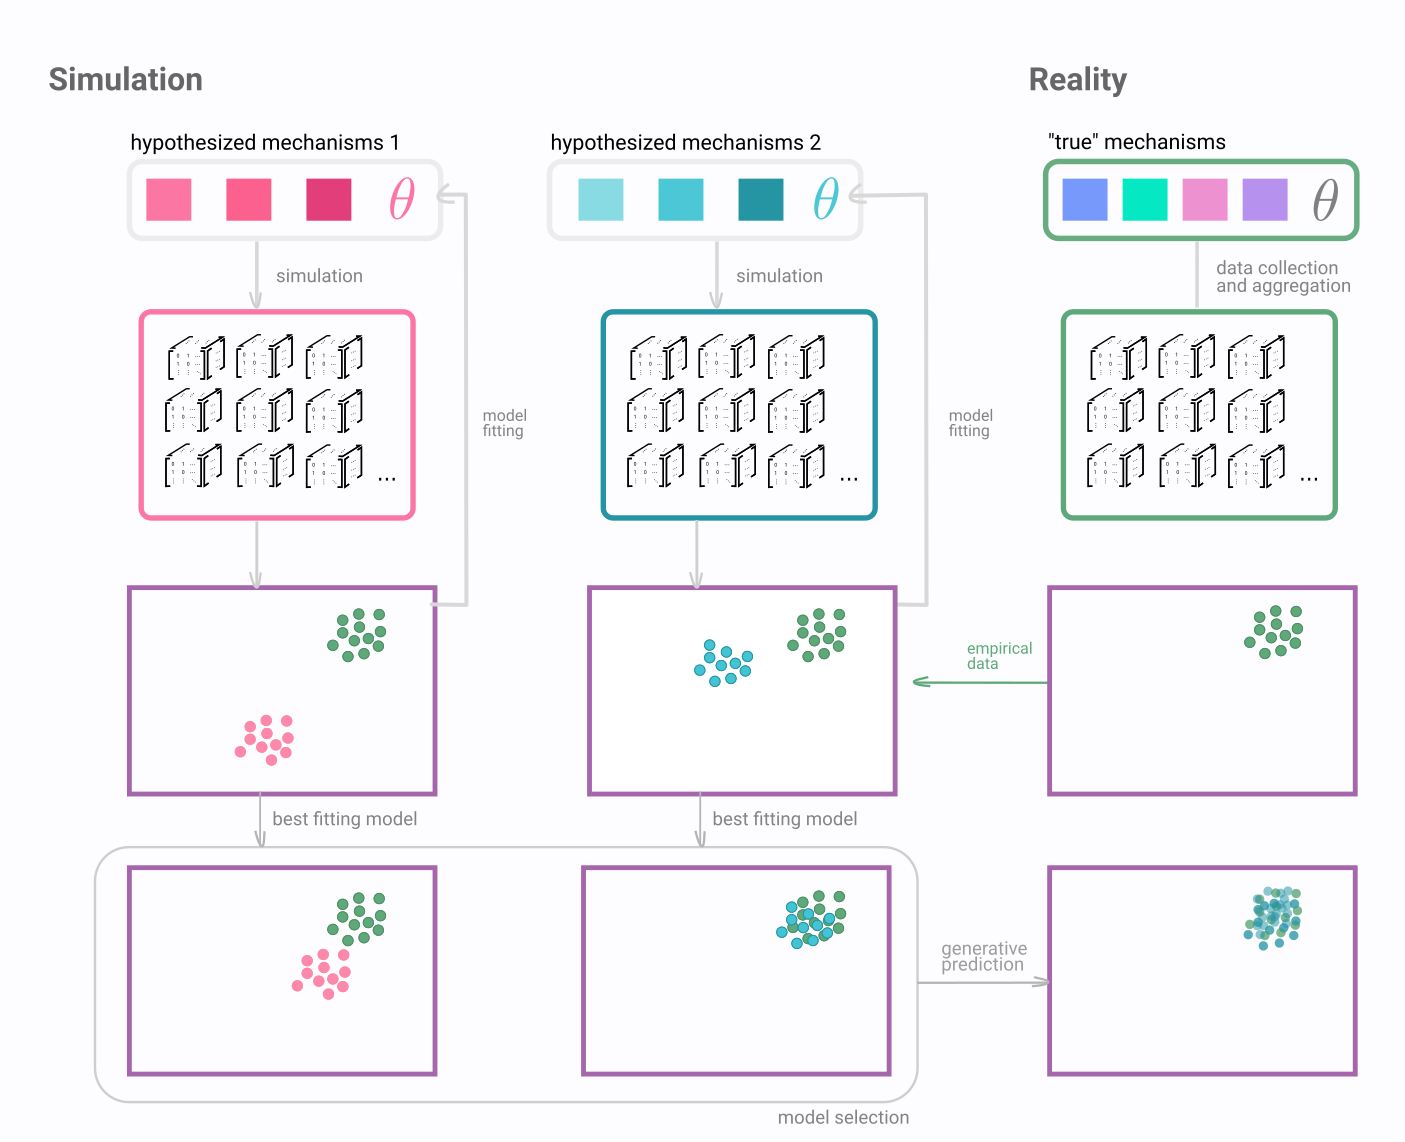
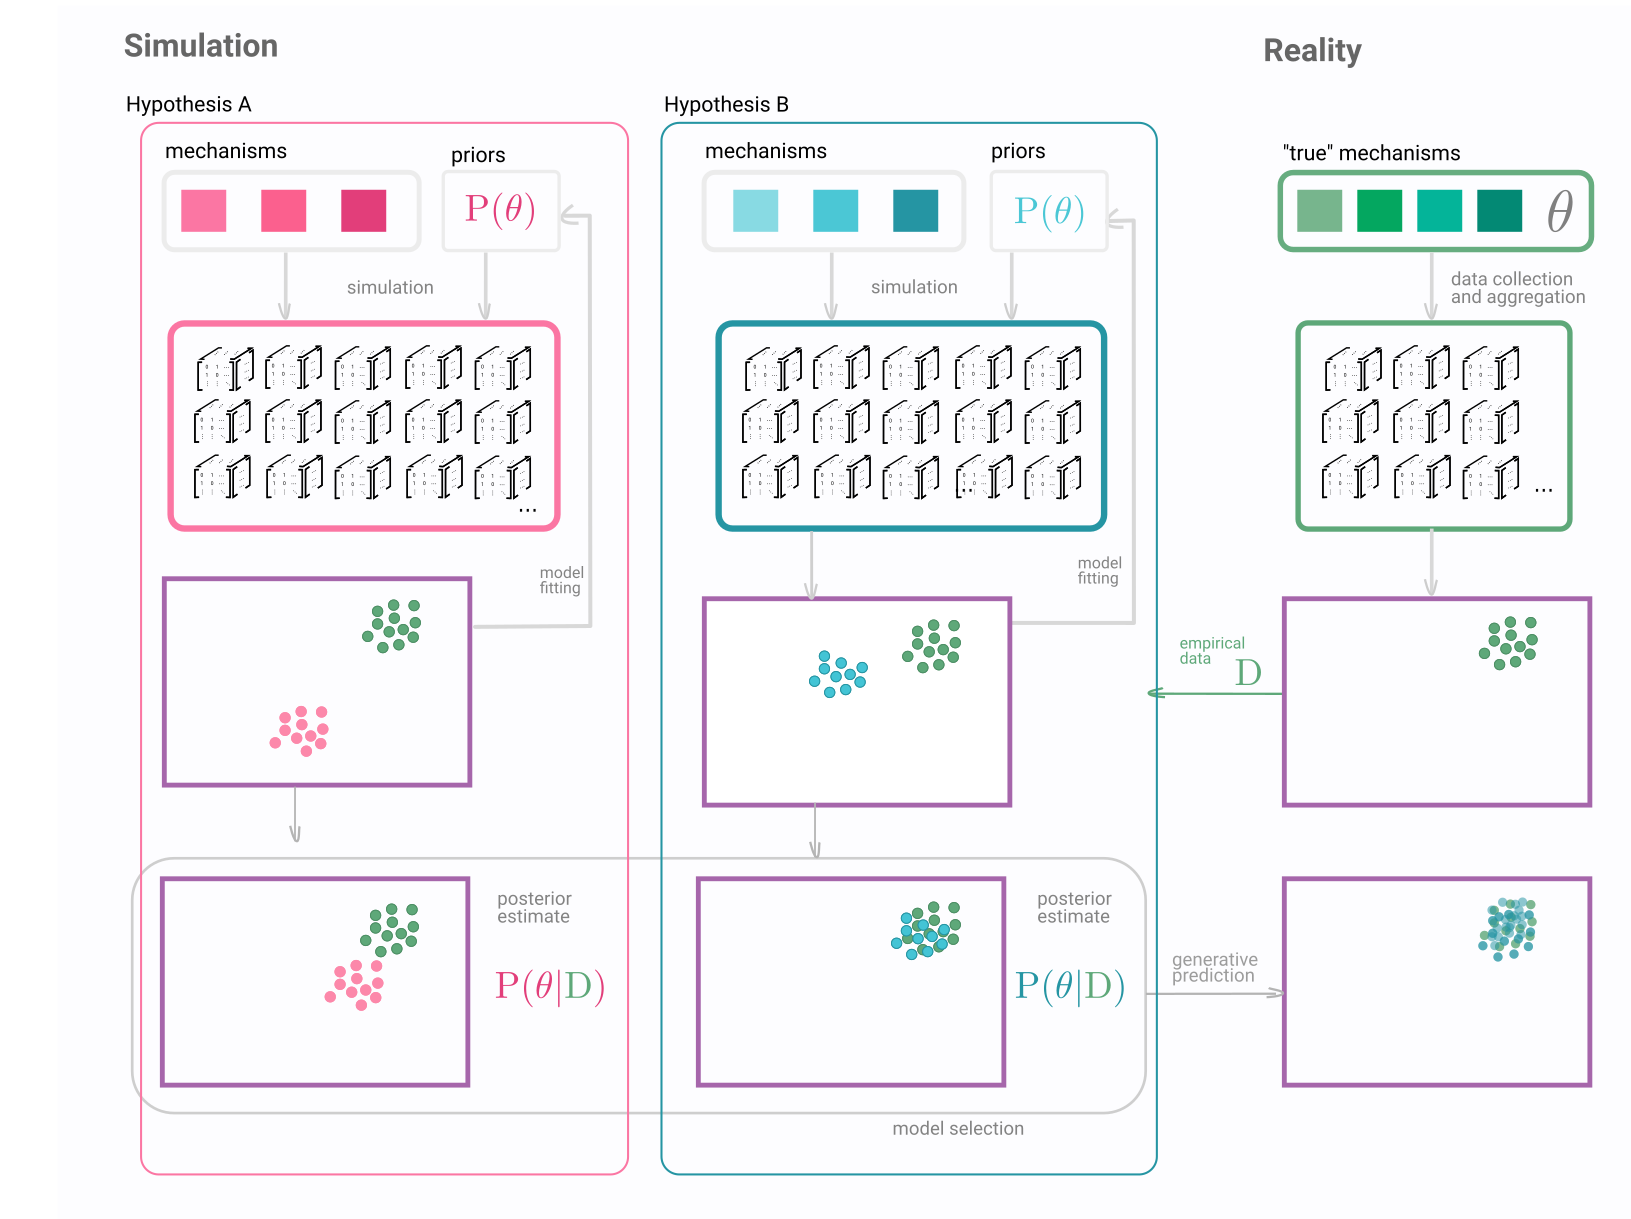
ok

Changed region(s): [[0.0306, 0.0306, 0.9794, 0.9807], [0.7345, 0.0306, 0.8569, 0.0919]]

diff --git a/manuscript.md b/manuscript.md
@@ -16,33 +16,98 @@ universal rules or mechanisms that underlie these systems when they are
 inherently driven by so many factors which interact in nonlinear and
 probabilistic ways?
 
-Innumerable biological mechanisms have been posited at various organizational
-scales. How does one decide the best spatial, temporal, and organizational scale
-at which to model a processes? Where would we look for universality?
-The scales at which we propose mechanisms are subject to selection bias based on
-the data we can collect---looking for your keys where the light is better.
+The difficulty of inferring the mechanisms that drive any complex system are
+twofold: 1) deciding on the best spatial, temporal, and organizational scale at
+which to model a process and 2) determining which the best set of models and
+parameters explain a particular dataset collected at that scale.
+Innumerable biological mechanisms have been posited at various spatial, temporal,
+and organizational scales (@fig:slices). How does one decide the best scale
+at which to model a processes, or at what scale it is best to look for universality?
 
-![TODO: Slices of Metacommunities. Concept space.](./figures/tensorslices.png){#fig:slices}
+
+![Conceptual space with three axes.](./figures/tensorslices.png){#fig:slices}
 
 @Lawton1999 argues that as an organizational scale, the ecology community is
 frought with too many "contingencies" in order to find universality.
+The scales at which we propose mechanisms are subject to selection bias based on
+the data we can collect---looking for lost keys where the light is better.
+
 Partially in response to Lawton's paper, the metacommunity framework
 [@Leibold2003MetCom] sought to address the inherently spatial nature of
 metacommunity processes. @Vellend2010ConSyn posits four fundamental processes,
-analogous to evo gen. @Poisot2015BeySpe also notes the importance of variation
-in traits and abunance.  Necessary additional spatial and temporal dimension to
+analogous to evolutionary gen. @Poisot2015BeySpe also notes the importance of variation
+in traits and abundance.  Necessary additional spatial and temporal dimension to
 community processes.
 
-What is in this paper? We argue simulation models can enable us to test more
-complex interaction mechanisms.
 
-Prediction as a measure of model efficacy.
+What is in this paper? We argue simulation models can enable us to test more
+complex interaction mechanisms. Prediction as a measure of model efficacy.
 Dynamical systems perspective on metacommunity ecology.
+
+How do we predict how ecosystems will change at the scale of community ecology?
+The mechanisms that influence the dynamics of communities are multifaceted.
+@Vellend2010ConSyn proposes four fundamental mechanisms of community ecology:
+speciation, selection, drift, and dispersal. The metacommunity concept
+[@Leibold2003MetCom] provides a framework to understand how species interact,
+how they are distributed across space, and how their changes through time. This
+enables conceptual synthesis of evolutionary (trait drift and selection in
+response to both the environment and other species) and ecological (species
+interacting with oneanother and their environment) processes.
+Many ecological and evolutionary processes fall within the metacommunity
+construction. How does species respond to variation and change in the
+environment? How does the composition of ecosystems (species) respond to
+evolutionary processes, which form the species pool?
+
+ScientificML [@Rackauckas2020UniDif].
+
+
+
+
+The data we collect from these systems is inherently noisy. This data contains
+information produced by a combination of "true" mechanisms (interacting in
+unknown ways) combined with noise. We first need to ask if we can understand the
+mechanisms producing these phenomena, which we argue is synonymous with
+prediction. The second question then becomes can we forecast/manage these
+systems? Example of success in climate/weather forecasting.
+
+# A dynamical systems perspective on ecological mechanisms
+
+Dynamical systems is the subfield of mathematics relating to understanding how
+systems change over time. often by applying a geometric perspective to
+state-space.
+
+***What is an ecological mechanism?***
+A mapping between low dimensional latent/parameter space and information space.
+
+Why is simulation necessary in ecology? They allow us to produce data that
+encodes explicit mechanism [@Crutchfield1992SemThe].
+
+
+***Metacommunity states and mechanisms***
+Within this abstraction, a metacommunity state is a set of measurements for
+species across locations at a single point in time, which can be represented as
+a matrix: a grid of measurements where each row corresponds to location and each
+column to species.
+
+***Metacommunity dynamics and tensors***
+Across timepoints, a set of states form trajectories which can
+be represented as a a tensor.
+
+![A mechanism is a flow on the state space.](./figures/flows.png){#fig:flow}
+
+
+
+# Using simulation to infer mechanisms in ecology
+
+Simulation models have a long history in ecology.
+However, fitting these models to data has proven difficult for a variety of reasons.
+
+![Likelihood free inference for metacommunity ecology ](./figures/likelihoodfreeinference.png){#fig:information}
+
 
 # Predictive ecology as a scientific epistemology
 
 What scales are inherently more predictable.
-
 
 Here we propose that simulation models have the potential to infer
 This results in the question: what are the mechanisms best describe a set of data?
@@ -78,75 +143,8 @@ There is variation in the what scales are best for prediction
 to avoid effective prediction at all [@Pennekamp2019IntPre; @Beckage2011LimPre;
 @Chen2019RevCom].
 
-How do we predict how ecosystems will change at the scale of community ecology?
-The mechanisms that influence the dynamics of communities are multifaceted.
-@Vellend2010ConSyn proposes four fundamental mechanisms of community ecology:
-speciation, selection, drift, and dispersal. The metacommunity concept
-[@Leibold2003MetCom] provides a framework to understand how species interact,
-how they are distributed across space, and how their changes through time. This
-enables conceptual synthesis of evolutionary (trait drift and selection in
-response to both the environment and other species) and ecological (species
-interacting with oneanother and their environment) processes.
-Many ecological and evolutionary processes fall within the metacommunity
-construction. How does species respond to variation and change in the
-environment? How does the composition of ecosystems (species) respond to
-evolutionary processes, which form the species pool?
-
-ScientificML [@Rackauckas2020UniDif].
-
-
-
-
-The data we collect from these systems is inherently noisy. This data contains
-information produced by a combination of "true" mechanisms (interacting in
-unknown ways) combined with noise. We first need to ask if we can understand the
-mechanisms producing these phenomena, which we argue is synonymous with
-prediction.
-
-
-
-The second question then becomes can we forecast/manage these systems?
-Example of success in climate/weather forecasting.
-
-# A dynamical systems perspective on ecological mechanisms
-
-***What is an ecological mechanism?***
-A mapping between low dimensional latent/parameter space and information space.
-Why is simulation necessary in ecology? They allow us to produce data that
-encodes explicit mechanism [@Crutchfield1992SemThe].
-Dynamical systems is the subfield of mathematics relating to understanding how
-systems change over time. often by applying a geometric perspective to
-state-space.
-
-
-***Metacommunity states and mechanisms***
-Within this abstraction, a metacommunity state is a set of measurements for
-species across locations at a single point in time, which can be represented as
-a matrix: a grid of measurements where each row corresponds to location and each
-column to species.
-
-***Metacommunity dynamics and tensors***
-Across timepoints, a set of states form trajectories which can
-be represented as a a tensor.
-
-![A mechanism is a flow on the state space.](./figures/flows.png){#fig:flow}
-
-
-
-# Using simulation to infer mechanisms in ecology
-
-Simulation models have a long history in ecology.
-However, fitting these models to data has proven difficult for a variety of reasons.
-
-![Likelihood free inference for metacommunity ecology ](./figures/likelihoodfreeinference.png){#fig:information}
-
 
 # Conclusion
-
-
-
-
-
 
 
 
@@ -160,9 +158,6 @@ It is useful the notion that a model represents some "truth" about the world,
 instead models have vary in their usefulness. predictive accuracy is  one
 measure of this usefulness. The problem is you cannot tell the difference
 ---Hume and the induction problem.
-
-
-
 
 If a simulation makes data the looks like real data, does it represent the
 "true" world? Does it matter? Newtonian Gravity was "right", until GR was more
